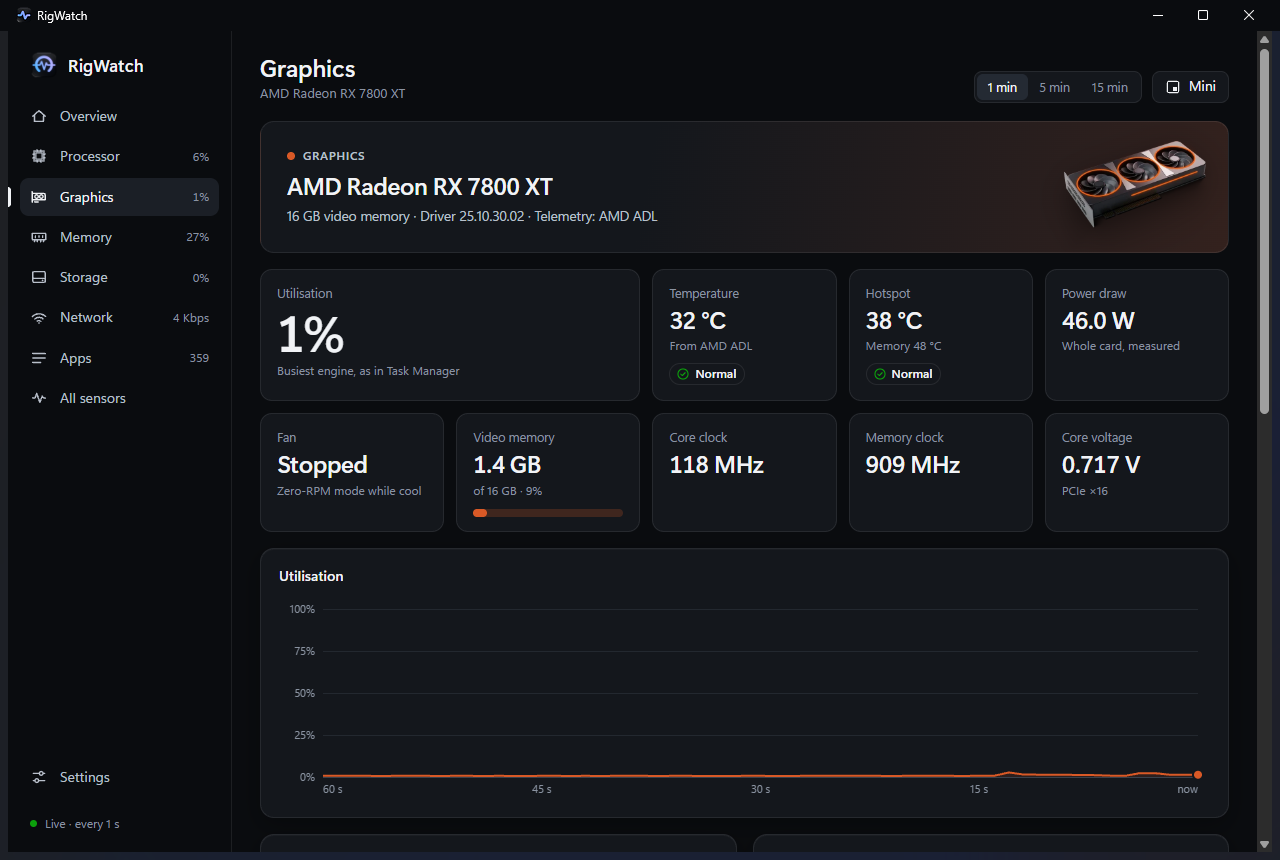
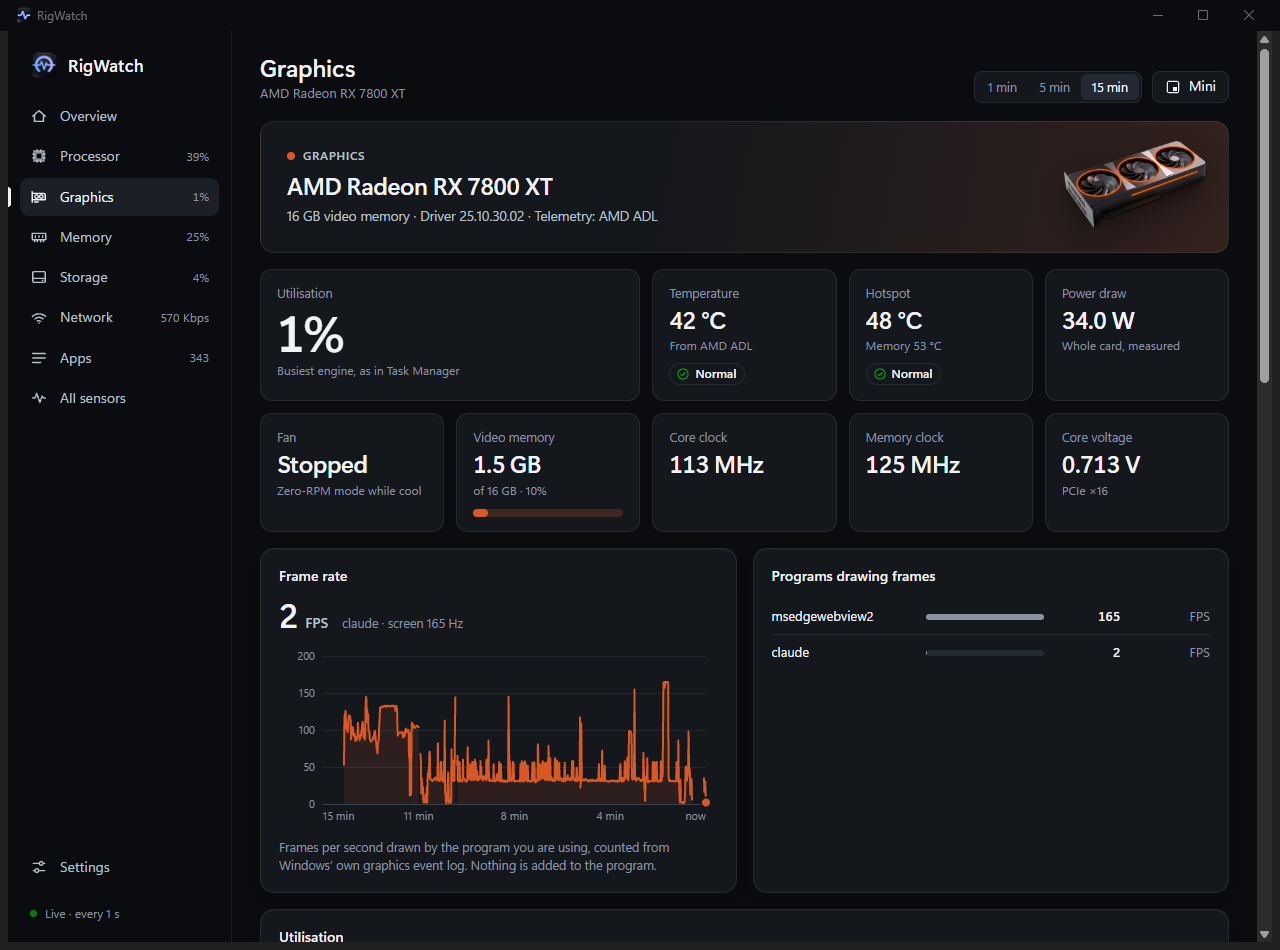
Docs: Graphics page picture with the frame rate, and a Displays picture
The Graphics page screenshot was from 2.0 and had no frame rate block.
The new one is taken from the running 2.2.0 app with the charts set to
15 minutes. A second picture shows the Displays section.

diff --git a/README.md b/README.md
@@ -119,6 +119,8 @@ available at that resolution, connection (DisplayPort, HDMI, built-in …), size
 HDR is on, Windows' scaling, and the graphics card it is plugged into. HDR is reported separately
 from Windows' automatic wide-colour mode, which is easy to mistake for it.
 
+![Displays](docs/displays.png)
+
 ### Start with Windows
 
 Turn on **Settings → Start with Windows** and RigWatch opens by itself when you sign in. It starts
